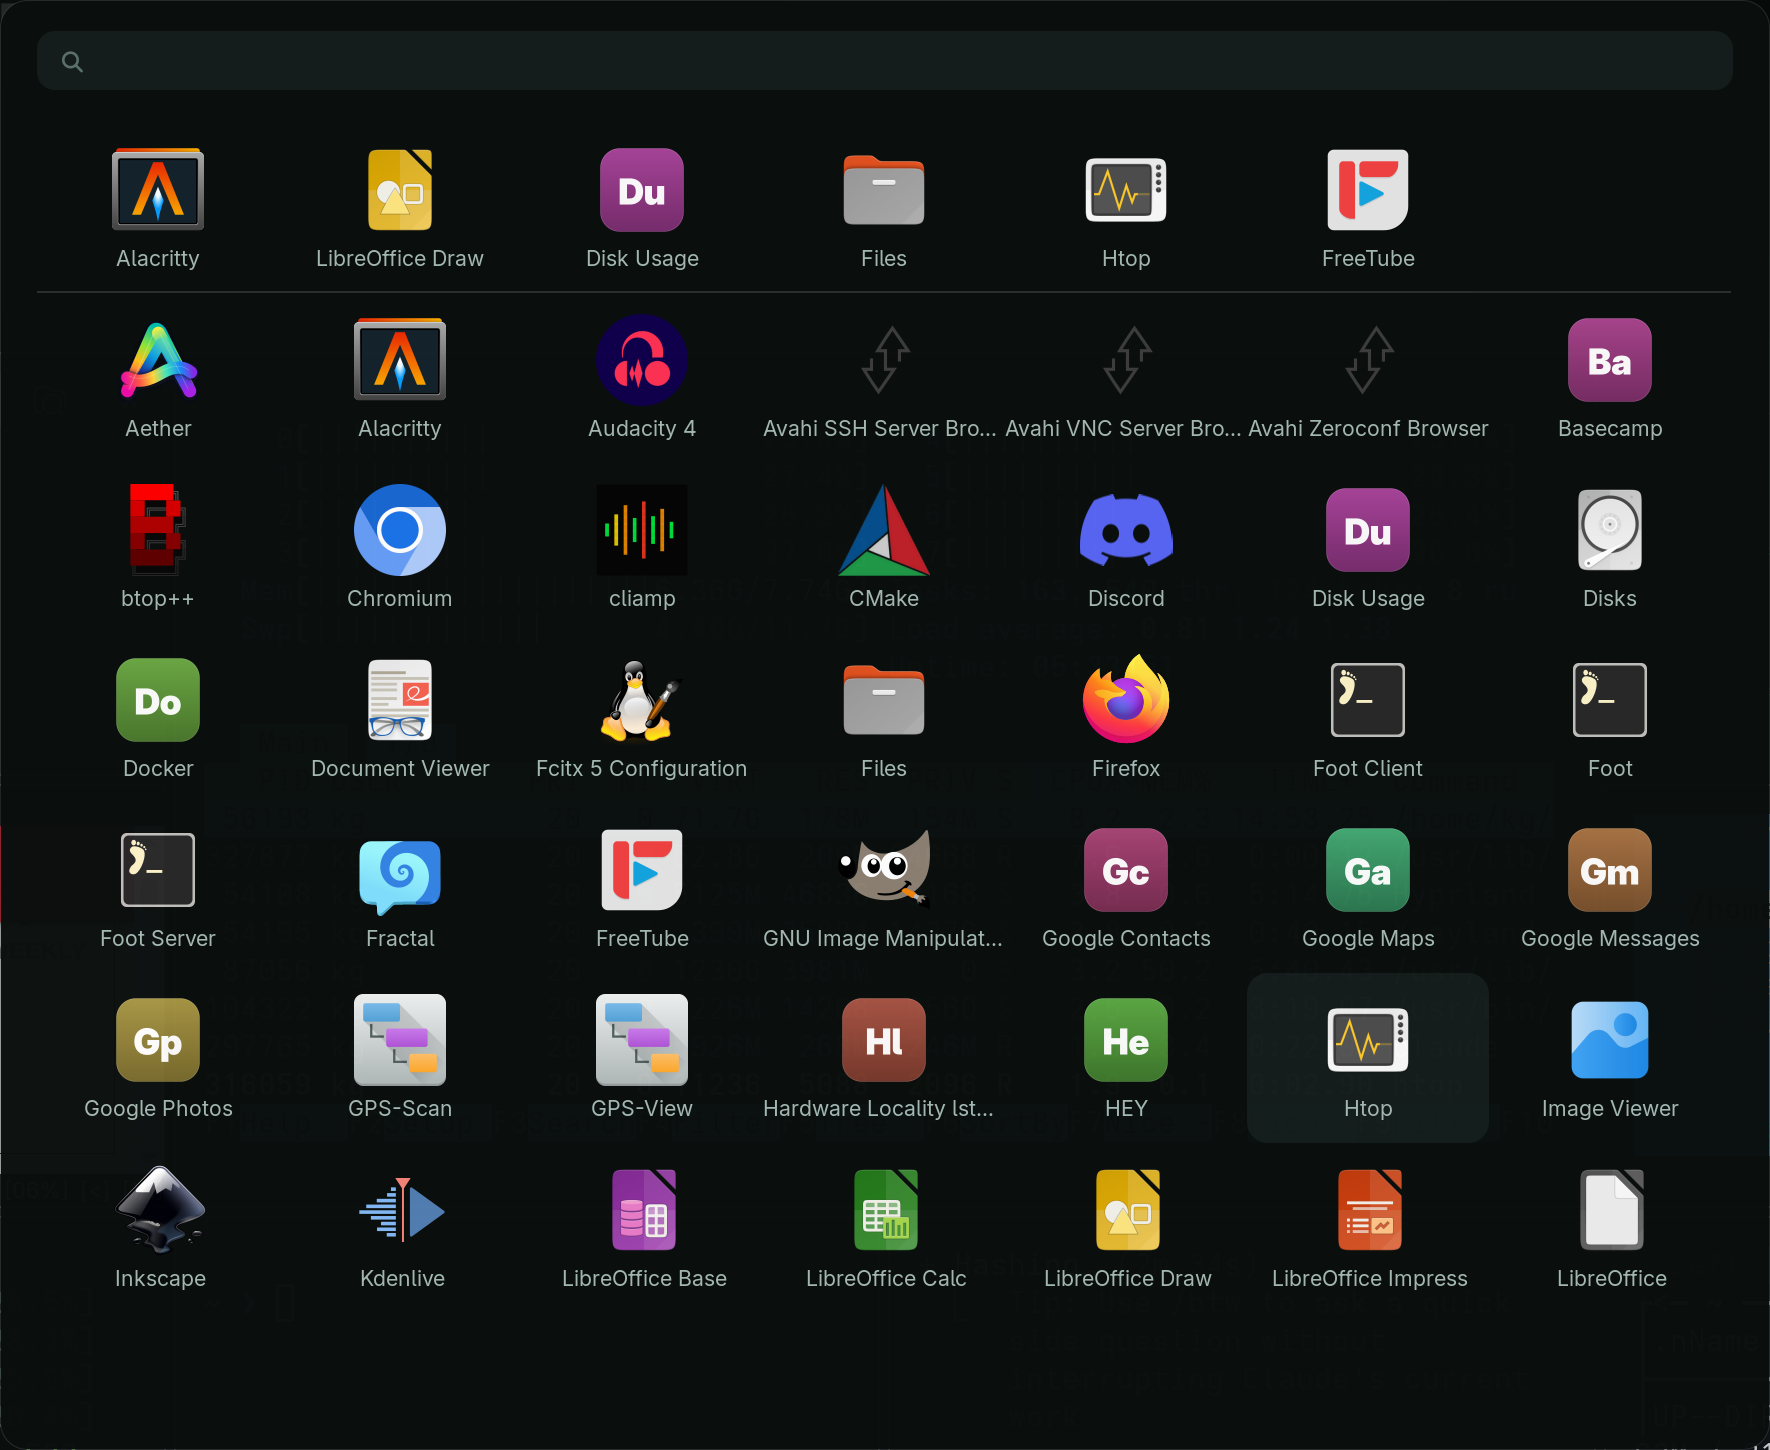
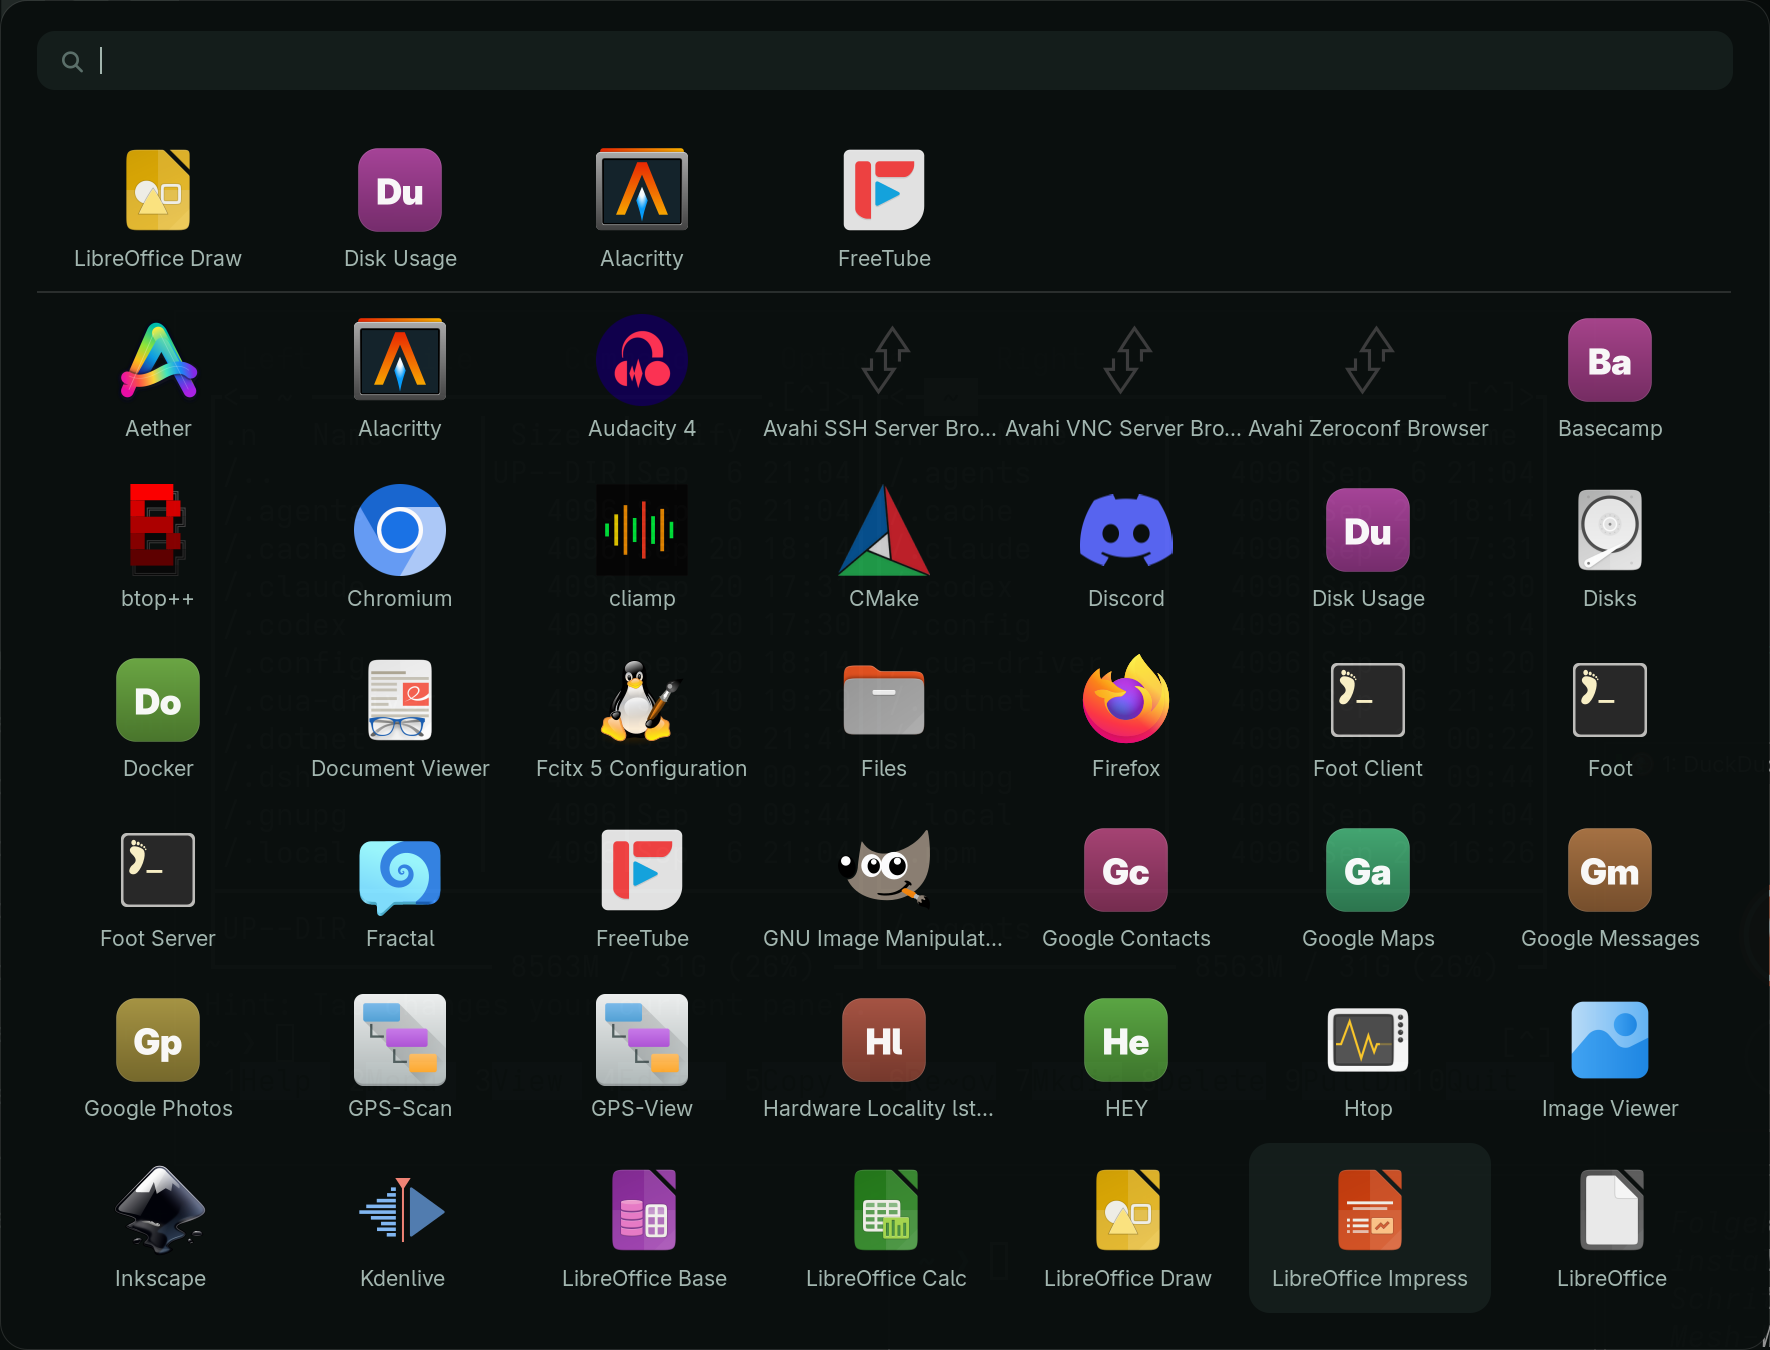
Leerraum unter der letzten Zeile beseitigen: Hoehe 1450 -> 1350 px
Unter der letzten Rasterzeile standen rund 199 px leer, weil die Fensterhoehe
zuvor nur unten gekuerzt worden war.

Naheliegend waere fixed-height: false gewesen. Das ist bei flow: horizontal
aber unbrauchbar: rofi bemisst die Fensterhoehe nach der ANZAHL der Eintraege
statt nach den belegten Rasterzeilen. Gemessen bei 7 Spalten:

  1 Treffer  (1 Zeile)  -> 157 px = 1 Zeilenhoehe
  4 Treffer  (1 Zeile)  -> 413 px = 4 Zeilenhoehen
  8 Treffer  (2 Zeilen) -> 667 px = 7 Zeilenhoehen

Der ueberschuessige Bereich bekommt keinen Panel-Hintergrund und bleibt
durchsichtig; zusaetzlich springt das Fenster bei jeder Trefferzahl an eine
andere Position, weil die Fensterregel neu zentriert.

Deshalb bleibt fixed-height: true, und die Hoehe wird knapp bemessen.
Ergebnis: Leerraum unten von ~199 px auf 1 px, sieben Zeilen weiterhin
sichtbar (1 x zuletzt benutzt + 6 x alphabetisch).

README: Der Abschnitt empfahl fixed-height: false als Alternative fuer
mitschrumpfende Fenster. Das war falsch und steht nun mit Messwerten als
Negativhinweis darin. Screenshot mit der neuen Hoehe erneuert.

diff --git a/README.md b/README.md
@@ -57,7 +57,7 @@ Raster und Größen stehen in `~/.config/omarchy/themed/applauncher.rasi.tpl`:
 ```css
 listview { columns: 7; lines: 7; }   /* Raster           */
 element-icon { size: 92px; }         /* Icon-Kantenlänge  */
-window { width: 1770px; height: 1450px; }
+window { width: 1770px; height: 1350px; }
 ```
 
 Nach dem Ändern einmal das Theme neu setzen, damit die Vorlage greift:
@@ -66,9 +66,10 @@ Nach dem Ändern einmal das Theme neu setzen, damit die Vorlage greift:
 omarchy-theme-set "$(< ~/.local/state/omarchy/current/theme.name)"
 ```
 
-Wird die Zeilenzahl erhöht, muss `height` mitwachsen — `fixed-height` ist
-aktiv, sonst schneidet das Fenster die letzte Reihe ab. Als Faustwert gilt
-rund 169 px pro Reihe bei 92-px-Icons.
+Wird die Zeilenzahl erhöht, muss `height` mitwachsen, sonst schneidet das
+Fenster die letzte Reihe ab. Als Faustwert gilt rund 169 px pro Reihe bei
+92-px-Icons; die Höhe sollte knapp bemessen sein, sonst bleibt unten
+sichtbar Leerraum stehen.
 
 `listview { spacing }` bleibt bewusst auf `0px`; der Zeilenabstand steckt im
 `element { padding }`. Andernfalls bekommt die Trennlinie unter der Zeile
@@ -123,9 +124,16 @@ zentriert im *nutzbaren* Bereich, also unterhalb einer Leiste wie Waybar —
 der Launcher wirkt dadurch zu tief. Die Fensterregel rechnet stattdessen mit
 `move` gegen die volle Monitorhöhe.
 
-**Fenstergröße bei wenigen Treffern.** Das Fenster behält seine Höhe, unten
-bleibt Leerraum — so wie beim Vorbild. Wer lieber mitschrumpfende Fenster
-mag, setzt `fixed-height: false`.
+**Das Fenster behält seine Größe**, auch wenn die Suche nur wenige Treffer
+liefert — so wie beim Vorbild.
+
+`fixed-height: false` ist hier **keine brauchbare Alternative**, auch wenn es
+naheliegt: rofi bemisst die Fensterhöhe dann nach der *Anzahl der Einträge*,
+nicht nach den belegten Rasterzeilen. Bei `flow: horizontal` passen vier
+Treffer in eine Zeile, das Fenster wird aber vier Zeilen hoch. Der
+überschüssige Bereich bekommt keinen Panel-Hintergrund und bleibt
+durchsichtig; zusätzlich springt das Fenster bei jeder Trefferzahl an eine
+andere Position. Gemessen: 4 Treffer → 4 Zeilenhöhen, 8 Treffer → 7.
 
 ## Lizenz
 
